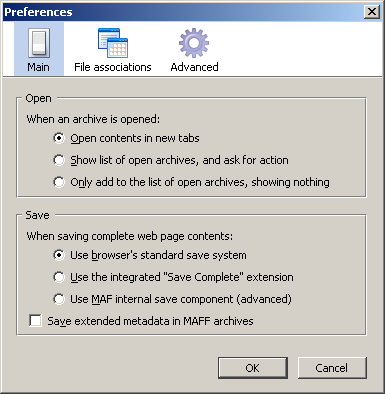
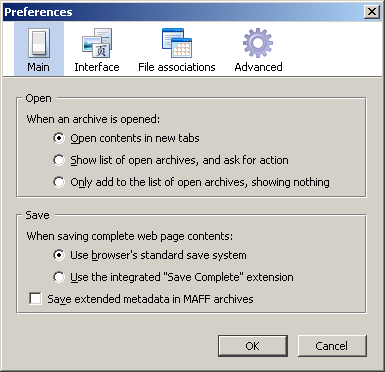
Update screenshots for MAF version 0.10.0.
The new screenshots were taken on an Italian Windows system.

diff --git a/www/screenshots.html b/www/screenshots.html
@@ -2,51 +2,38 @@
 <div class="maf-column-contents">
   <h2 class="page-header">Screenshots</h2>
 
-<p>Below are some screenshots of the MAF extension.</p>
+  <h3>Saving archives</h3>
+  <img src="images/saveExample.png" alt="">
+  <p>Saving multiple pages in a single file is fast and easy, using MAF with
+   Multiple Tab Handler.<p>
+  <hr>
+  <img src="images/saveAsDialog.png" alt="">
+  <p>You can save both MAFF and MHTML archives.<p>
+  <hr>
+  <img src="images/multiSaveDialog.png" alt="">
+  <p>Even without Multiple Tab Handler you can select which tabs to save from
+   a handy selection window.<p>
+  <hr>
 
-<table border="0" cellpadding="5" cellspacing="15" width="80%" valign="center">
-<tr>
-  <td>
+  <h3>Viewing archives</h3>
+  <img src="images/viewArchive.png" alt="">
+  <p>You can open archives like any other type of saved page. The name of the
+   archive appears in the location bar. All the images in the page are saved
+   correctly, thanks to the integrated Save Complete extension.</p>
+  <hr>
 
-<a href="images/shot1.png"><img src="images/small-shot1.png" border="0"/></a>
+  <h3>Viewing information about archive contents</h3>
+  <img src="images/browseOpenArchivesDialog.png" alt="">
+  <p>The <i>Browse Open Archives</i> dialog lets you view information about the
+   archives that you opened in this session.</p>
+  <hr>
 
-  </td>
-  <td>
-
-Browsing an open archive. Archive 1, some free software related donation pages.
-
-  </td>
-</tr>
-<tr>
-  <td>
-
-Shows the location of the Mozilla Archive Format menu. Shows the menu entries for accessing preferences, browsing open archives and finding out about the extension.
-  </td>
-  <td>
-
-<a href="images/shot2.png"><img src="images/small-shot2.png" border="0"/></a>
-
-  </td>
-</tr>
-
-<tr>
-  <td>
-<a href="images/shot3.png"><img src="images/small-shot3.png" border="0"/></a>
-  </td>
-  <td>
-
-MAF allows the user to save all the open tabs in an archive. This screenshot shows the progress dialog shown when the user tries to save all the tabs in the current window in an archive.
-
-  </td>
-</tr>
-<tr>
-  <td>
-Shows the addition to the context menu allowing the user to save the current page in an archive.
-  </td>
-  <td>
-<a href="images/shot4.png"><img src="images/small-shot4.png" border="0"/></a>
-  </td>
-</tr>
-</table>
-
+  <h3>Customizing the look and feel</h3>
+  <img src="images/toolsMenu.png" alt="">
+  <p>By default MAF is integrated with the standard <i>Save As</i> dialog, and
+   additional commands are available from the Tools menu.</p>
+  <hr>
+  <img src="images/prefsDialog-paneInterface.png" alt="">
+  <p>You can place the MAF menu items where you feel comfortable, and hide
+   them if you don't need them.</p>
 </div>
